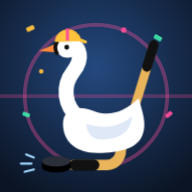
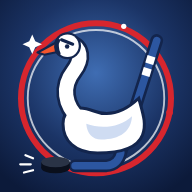
Svanen: Toms emblem på resultatlistan + ny ikon i marinblått/vitt/rött
Claude-Session: https://claude.ai/code/session_01BNCDC3QPwj6d2Zssi6PQMV

diff --git a/svanen/index.html b/svanen/index.html
@@ -135,6 +135,8 @@ canvas#fx{position:fixed;inset:0;width:100%;height:100%;pointer-events:none;z-in
 .qr{background:#fff;border-radius:14px;padding:12px;width:min(280px,100%);margin:0 auto}
 .qr svg{display:block;width:100%;height:auto}
 .foot{text-align:center;margin-top:28px}
+.emblem{display:block;width:min(66vw,290px);height:auto;margin:-6px auto 8px;filter:drop-shadow(0 10px 24px rgba(0,0,0,.45))}
+.emblem.sm{width:min(42vw,180px)}
 .foot a{color:var(--dim);font-size:13px}
 .fktbl td:first-child{white-space:normal}
 </style>
@@ -261,7 +263,7 @@ set:'<svg viewBox="0 0 24 24" fill="none" stroke="currentColor" stroke-width="2"
 };
 const TABS=[["lag","Lag",I.lag],["match","Match",I.match],["femkamp","Femkamp",I.fem],["tabell","Tabell",I.tab],["mer","Mer",I.set]];
 function header(){
-if(!isAdmin)return`<div class="brand">Svanen <span class="sw">Hockey</span> Games<small>Resultat live</small></div>${S?`<span class="chip"><span class="dot" style="background:${netErr?"var(--red)":"var(--mint)"}"></span>${netErr?"Tappat anslutningen":"Live"}</span>`:""}`;
+if(!isAdmin)return`<span class="brand" style="font-size:16px">Resultat <span class="sw">live</span></span>${S?`<span class="chip"><span class="dot" style="background:${netErr?"var(--red)":"var(--mint)"}"></span>${netErr?"Tappat anslutningen":"Live"}</span>`:""}`;
 return`<div class="brand">Svanen <span class="sw">Hockey</span> Games<small>Sekretariatet</small></div>${PIN?`<div class="row" style="justify-content:flex-end">${syncChip()}<button class="btn small pink" data-act="jagerNow">Jäger-paus</button></div>`:""}`;
 }
 function render(){
@@ -388,15 +390,16 @@ return h;
 }
 function vLogin(){
 return`<div class="card stack" style="max-width:420px;margin:30px auto;text-align:center">
-<h2 style="margin:0">Tävlingsledningen</h2><p class="muted" style="margin:0">Skriv in koden för att föra protokoll.</p>
+<img class="emblem sm" src="emblem.webp" alt="" width="640" height="640" style="margin:0 auto"><h2 style="margin:0">Tävlingsledningen</h2><p class="muted" style="margin:0">Skriv in koden för att föra protokoll.</p>
 <form class="stack" data-form="login"><input type="text" id="pin" placeholder="Kod" autocomplete="off" autocapitalize="off" spellcheck="false" style="text-align:center;font-size:20px;letter-spacing:2px"><button class="btn primary">Logga in</button></form>
 <a href="#" class="muted">Till resultatlistan</a></div>`;
 }
 function vPublic(){
 const foot=`<div class="foot"><a href="#sekretariat">Tävlingsledning</a></div>`;
-if(!loaded)return`<div class="empty">Hämtar ställningen…</div>`+foot;
-if(!S)return`<div class="empty">${netErr?"Når inte resultatservern just nu. Försöker igen strax.":"Turneringen har inte börjat än. Håll i klubban!"}</div>`+foot;
-let h="";
+const hero=sm=>`<img class="emblem${sm?" sm":""}" src="emblem.webp" alt="Svanen Hockey Games Ludvika" width="640" height="640">`;
+if(!loaded)return hero()+`<div class="empty">Hämtar ställningen…</div>`+foot;
+if(!S)return hero()+`<div class="empty">${netErr?"Når inte resultatservern just nu. Försöker igen strax.":"Turneringen har inte börjat än. Håll i klubban!"}</div>`+foot;
+let h=hero(!!curMatch()||!!S.jagerLive);
 if(S.jagerLive&&Date.now()-S.jagerLive.t<15*60000){const x=player(S.jagerLive.player);if(x)h+=`<div class="jalert"><div class="k">JÄGER-PAUS!</div><div class="who">${esc(x.p.name)}</div><div style="font-weight:800;letter-spacing:2px;text-transform:uppercase;color:${esc(x.t.color)}">${esc(x.t.name)}</div><div class="muted" style="color:#cfe">tar en shot. Skål!</div></div>`}
 const m=curMatch();
 if(m){h+=`<h2>Pågående match</h2>`+board(m,true);const ev=m.events.slice(-5).reverse();if(ev.length)h+=`<ul class="log" style="margin-top:10px">${ev.map(e=>evRow(e,m,true)).join("")}</ul>`}
